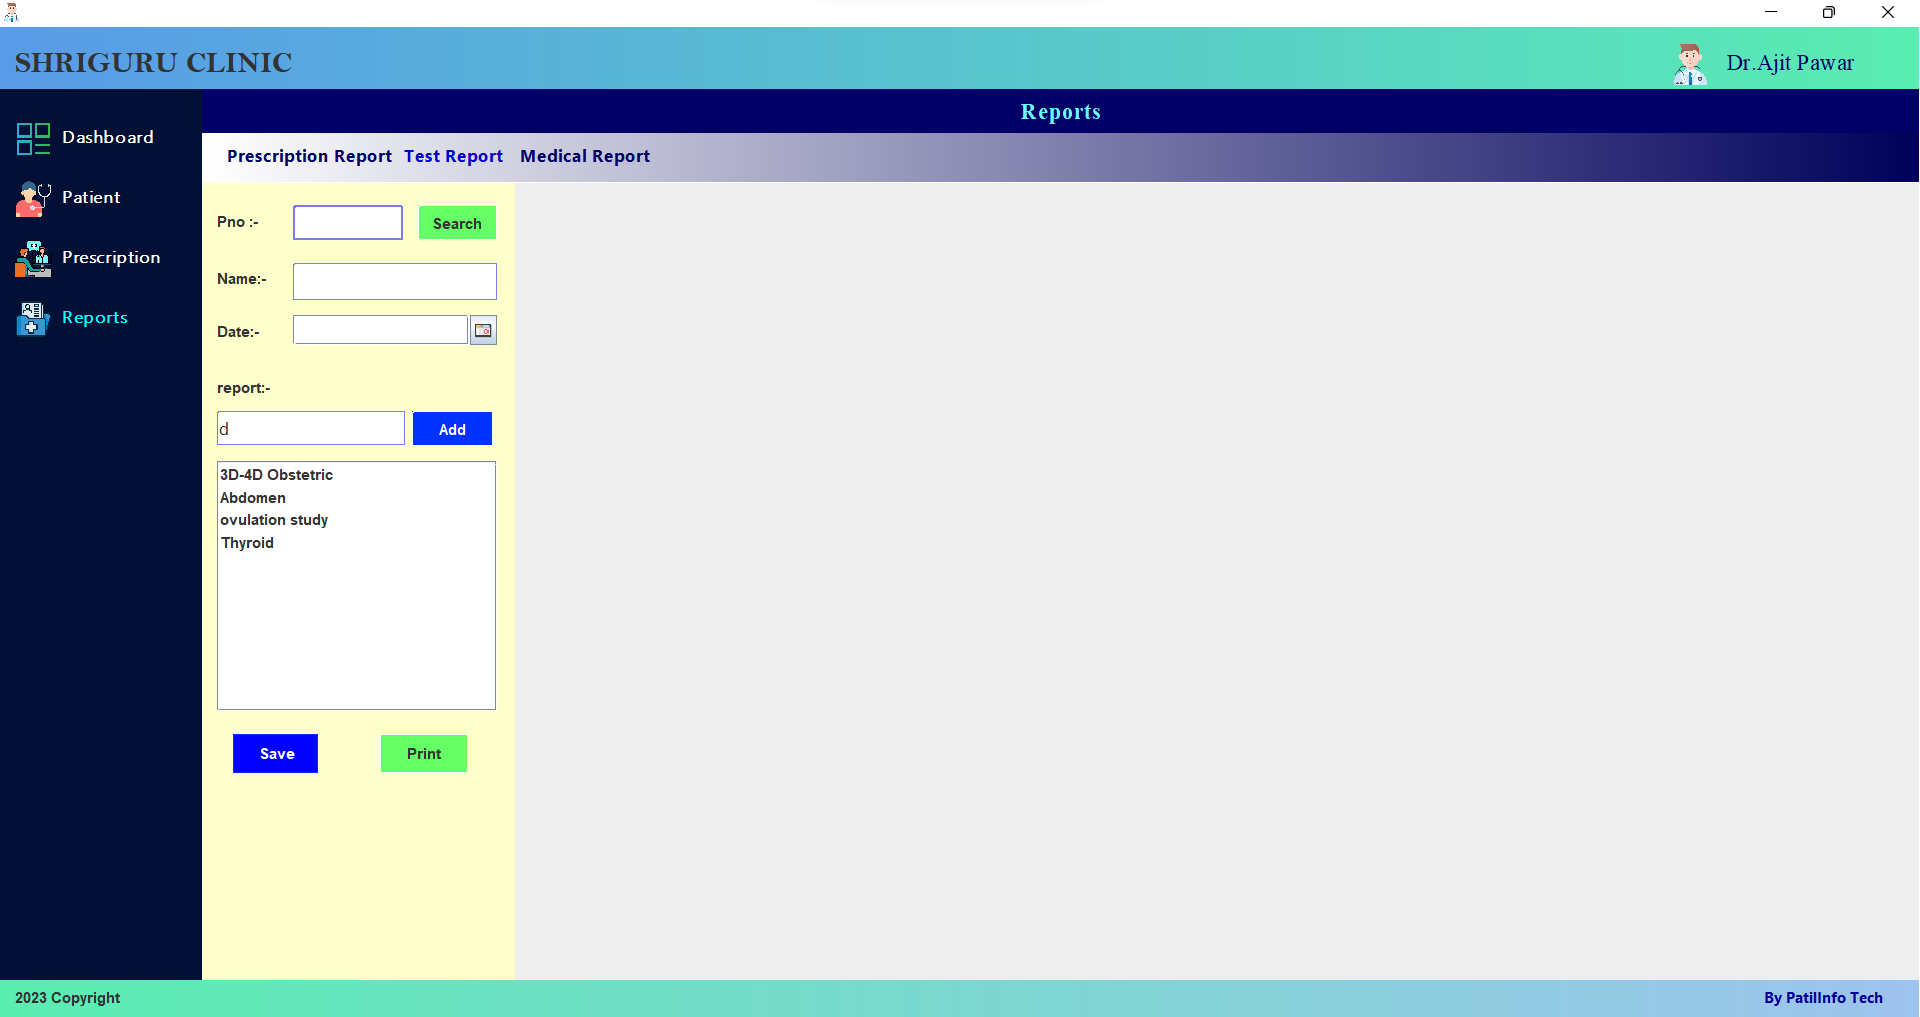
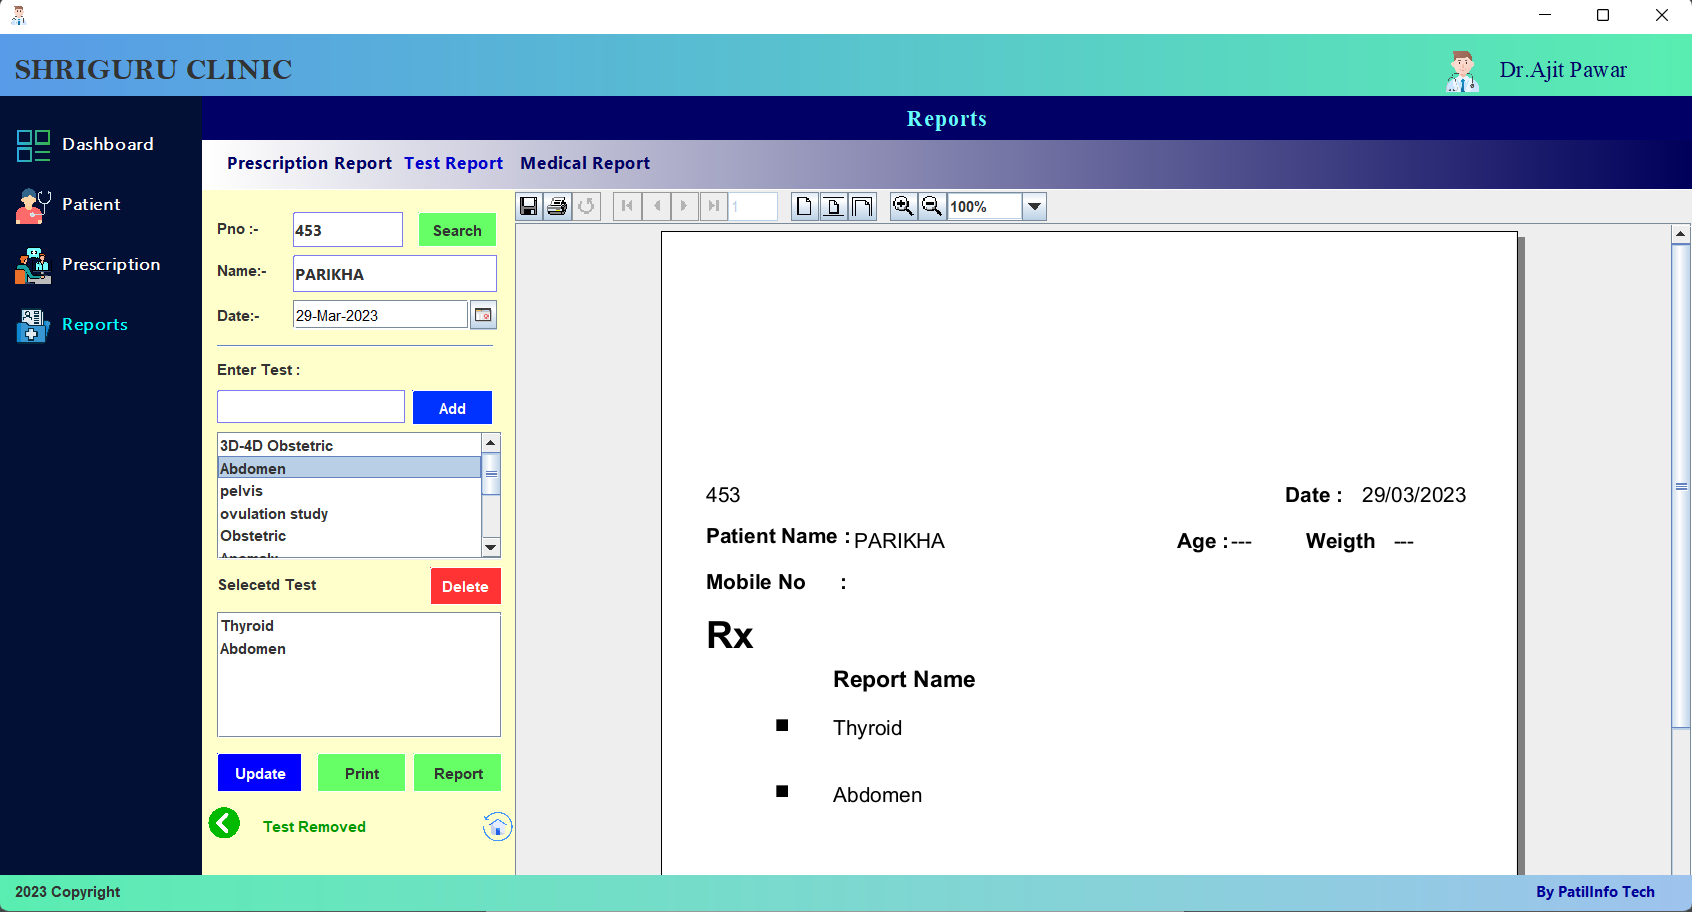
update button added on test report page

diff --git a/src/main/java/hospitalmanagement/TestReport.java b/src/main/java/hospitalmanagement/TestReport.java
@@ -97,6 +97,23 @@ public class TestReport extends javax.swing.JPanel {
         try {
             pno_report_input.setText(Integer.toString(TEST_REPORT_PATIENT_DETAILS.getPid()));
 
+            Database db = Database.getInstance();
+            ArrayList<String> tests = db.getAllTestReportts(TEST_REPORT_PATIENT_DETAILS.getPid());
+
+            if (tests != null) {
+                lm.removeAllElements();
+                for (String t : tests) {
+                    lm.addElement(t);
+                }
+                selected_report_list.setModel(lm);
+            }
+            else{
+                lm.removeAllElements();
+                
+            }
+            revalidate();
+            repaint();
+
         } catch (NullPointerException exp) {
             System.out.println("Enter integer value only");
         }
@@ -160,7 +177,7 @@ public class TestReport extends javax.swing.JPanel {
         report_status = new javax.swing.JLabel();
         search_report = new javax.swing.JButton();
         print = new javax.swing.JButton();
-        save = new javax.swing.JButton();
+        update = new javax.swing.JButton();
         jLabel5 = new javax.swing.JLabel();
         report_input = new javax.swing.JTextField();
         add_report_btn = new javax.swing.JButton();
@@ -275,23 +292,23 @@ public class TestReport extends javax.swing.JPanel {
             }
         });
 
-        save.setBackground(new java.awt.Color(0, 0, 255));
-        save.setForeground(new java.awt.Color(255, 255, 255));
-        save.setText("Save");
-        save.setBorder(new javax.swing.border.LineBorder(new java.awt.Color(0, 51, 255), 1, true));
-        save.setCursor(new java.awt.Cursor(java.awt.Cursor.HAND_CURSOR));
-        save.setFocusable(false);
-        save.addMouseListener(new java.awt.event.MouseAdapter() {
+        update.setBackground(new java.awt.Color(0, 0, 255));
+        update.setForeground(new java.awt.Color(255, 255, 255));
+        update.setText("Update");
+        update.setBorder(new javax.swing.border.LineBorder(new java.awt.Color(0, 51, 255), 1, true));
+        update.setCursor(new java.awt.Cursor(java.awt.Cursor.HAND_CURSOR));
+        update.setFocusable(false);
+        update.addMouseListener(new java.awt.event.MouseAdapter() {
             public void mouseEntered(java.awt.event.MouseEvent evt) {
-                saveMouseEntered(evt);
+                updateMouseEntered(evt);
             }
             public void mouseExited(java.awt.event.MouseEvent evt) {
-                saveMouseExited(evt);
+                updateMouseExited(evt);
             }
         });
-        save.addActionListener(new java.awt.event.ActionListener() {
+        update.addActionListener(new java.awt.event.ActionListener() {
             public void actionPerformed(java.awt.event.ActionEvent evt) {
-                saveActionPerformed(evt);
+                updateActionPerformed(evt);
             }
         });
 
@@ -473,7 +490,7 @@ public class TestReport extends javax.swing.JPanel {
                         .addGroup(test_report_formLayout.createParallelGroup(javax.swing.GroupLayout.Alignment.LEADING)
                             .addComponent(jLabel1, javax.swing.GroupLayout.PREFERRED_SIZE, 95, javax.swing.GroupLayout.PREFERRED_SIZE)
                             .addGroup(test_report_formLayout.createSequentialGroup()
-                                .addComponent(save, javax.swing.GroupLayout.PREFERRED_SIZE, 68, javax.swing.GroupLayout.PREFERRED_SIZE)
+                                .addComponent(update, javax.swing.GroupLayout.PREFERRED_SIZE, 68, javax.swing.GroupLayout.PREFERRED_SIZE)
                                 .addPreferredGap(javax.swing.LayoutStyle.ComponentPlacement.UNRELATED)
                                 .addComponent(print, javax.swing.GroupLayout.PREFERRED_SIZE, 71, javax.swing.GroupLayout.PREFERRED_SIZE)
                                 .addPreferredGap(javax.swing.LayoutStyle.ComponentPlacement.RELATED)
@@ -531,7 +548,7 @@ public class TestReport extends javax.swing.JPanel {
                     .addComponent(report_refresh, javax.swing.GroupLayout.Alignment.TRAILING, javax.swing.GroupLayout.PREFERRED_SIZE, 29, javax.swing.GroupLayout.PREFERRED_SIZE)
                     .addGroup(javax.swing.GroupLayout.Alignment.TRAILING, test_report_formLayout.createSequentialGroup()
                         .addGroup(test_report_formLayout.createParallelGroup(javax.swing.GroupLayout.Alignment.BASELINE)
-                            .addComponent(save, javax.swing.GroupLayout.PREFERRED_SIZE, 31, javax.swing.GroupLayout.PREFERRED_SIZE)
+                            .addComponent(update, javax.swing.GroupLayout.PREFERRED_SIZE, 31, javax.swing.GroupLayout.PREFERRED_SIZE)
                             .addComponent(print, javax.swing.GroupLayout.PREFERRED_SIZE, 31, javax.swing.GroupLayout.PREFERRED_SIZE)
                             .addComponent(generate_report, javax.swing.GroupLayout.PREFERRED_SIZE, 31, javax.swing.GroupLayout.PREFERRED_SIZE))
                         .addPreferredGap(javax.swing.LayoutStyle.ComponentPlacement.UNRELATED)
@@ -623,14 +640,42 @@ public class TestReport extends javax.swing.JPanel {
 
     private void search_reportActionPerformed(java.awt.event.ActionEvent evt) {//GEN-FIRST:event_search_reportActionPerformed
 
+       try{        
         Database database = Database.getInstance();
         int pno = Integer.parseInt(pno_report_input.getText());
         setTestReportPatientDetailsObject(database.getPatientDetails(pno));
+        
+        resetTestReportLists();
         setTestReportDetails();
+
+        ArrayList<String> tests = database.getAllTestReportts(pno);
+        if(tests!=null){
+         setReportPrint();
+        }
+       }catch(NumberFormatException exp)
+       {
+           report_status.setText("Enter valid patient number");
+           report_status.setForeground(WARNING_COLOR);
+       }
+        
 
 
     }//GEN-LAST:event_search_reportActionPerformed
-
+    public void resetTestReportLists()
+    {
+        report_input.setText("");
+        report_list.clearSelection();
+        selected_report_list.setModel(new DefaultListModel());
+        
+        report_show_panel.removeAll();
+        report_show_panel.revalidate();
+        report_show_panel.repaint();
+        
+        report_status.setText("");
+        
+        
+        
+    }
     private void printMouseEntered(java.awt.event.MouseEvent evt) {//GEN-FIRST:event_printMouseEntered
         print.setBorder(HOVER_BORDER);
     }//GEN-LAST:event_printMouseEntered
@@ -651,25 +696,17 @@ public class TestReport extends javax.swing.JPanel {
         }
     }//GEN-LAST:event_printActionPerformed
 
-    private void saveMouseEntered(java.awt.event.MouseEvent evt) {//GEN-FIRST:event_saveMouseEntered
-        save.setBorder(HOVER_BORDER);
-    }//GEN-LAST:event_saveMouseEntered
+    private void updateMouseEntered(java.awt.event.MouseEvent evt) {//GEN-FIRST:event_updateMouseEntered
+        update.setBorder(HOVER_BORDER);
+    }//GEN-LAST:event_updateMouseEntered
 
-    private void saveMouseExited(java.awt.event.MouseEvent evt) {//GEN-FIRST:event_saveMouseExited
-        save.setBorder(DEFAULT_BTN_BORDER);
-    }//GEN-LAST:event_saveMouseExited
+    private void updateMouseExited(java.awt.event.MouseEvent evt) {//GEN-FIRST:event_updateMouseExited
+        update.setBorder(DEFAULT_BTN_BORDER);
+    }//GEN-LAST:event_updateMouseExited
 
-    private void saveActionPerformed(java.awt.event.ActionEvent evt) {//GEN-FIRST:event_saveActionPerformed
-        try {
-            printReport(getTestReportPatientDetailsObject(), true);
-            report_status.setText("Rport printed Succesfully");
-            report_status.setForeground(SUCCESS_COLOR);
-        } catch (JRException ex) {
-            report_status.setText("Rport not printed");
-            report_status.setForeground(WARNING_COLOR);
-
-        }
-    }//GEN-LAST:event_saveActionPerformed
+    private void updateActionPerformed(java.awt.event.ActionEvent evt) {//GEN-FIRST:event_updateActionPerformed
+        updateTestReport();
+    }//GEN-LAST:event_updateActionPerformed
 
     private void report_inputMouseEntered(java.awt.event.MouseEvent evt) {//GEN-FIRST:event_report_inputMouseEntered
         report_input.setBorder(HOVER_BORDER);
@@ -712,6 +749,8 @@ public class TestReport extends javax.swing.JPanel {
 
         setReportsIntoDatabase();
         setReportPrint();
+       
+
     }//GEN-LAST:event_generate_reportActionPerformed
 
     private void report_refreshMouseClicked(java.awt.event.MouseEvent evt) {//GEN-FIRST:event_report_refreshMouseClicked
@@ -748,15 +787,15 @@ public class TestReport extends javax.swing.JPanel {
     }//GEN-LAST:event_remove_selected_report_btnActionPerformed
 
     private void remove_selected_report_btnMouseEntered(java.awt.event.MouseEvent evt) {//GEN-FIRST:event_remove_selected_report_btnMouseEntered
-       remove_selected_report_btn.setBorder(HOVER_BORDER);
+        remove_selected_report_btn.setBorder(HOVER_BORDER);
     }//GEN-LAST:event_remove_selected_report_btnMouseEntered
 
     private void remove_selected_report_btnMouseExited(java.awt.event.MouseEvent evt) {//GEN-FIRST:event_remove_selected_report_btnMouseExited
-       remove_selected_report_btn.setBorder(DEFAULT_BTN_BORDER);
+        remove_selected_report_btn.setBorder(DEFAULT_BTN_BORDER);
     }//GEN-LAST:event_remove_selected_report_btnMouseExited
 
     private void report_inputKeyPressed(java.awt.event.KeyEvent evt) {//GEN-FIRST:event_report_inputKeyPressed
-       if (evt.getKeyCode() == KeyEvent.VK_ENTER) {
+        if (evt.getKeyCode() == KeyEvent.VK_ENTER) {
             addReport();
             report_input.setText("");
             report_input.grabFocus();
@@ -764,18 +803,17 @@ public class TestReport extends javax.swing.JPanel {
 
         if (evt.getKeyCode() == KeyEvent.VK_DOWN) {
             report_list.grabFocus();
-           report_list.setSelectedIndex(0);
-           
+            report_list.setSelectedIndex(0);
+
         }
         if (evt.getKeyCode() == KeyEvent.VK_UP) {
-           
-            if(report_list.getSelectedIndex()==0){
+
+            if (report_list.getSelectedIndex() == 0) {
                 report_input.grabFocus();
+            } else {
+                report_list.grabFocus();
             }
-            else{
-            report_list.grabFocus();
-            }
-                  
+
         }
     }//GEN-LAST:event_report_inputKeyPressed
 
@@ -785,16 +823,15 @@ public class TestReport extends javax.swing.JPanel {
             report_input.setText("");
             report_input.grabFocus();
         }
-        
+
         if (evt.getKeyCode() == KeyEvent.VK_UP) {
-           
-            if(report_list.getSelectedIndex()==0){
+
+            if (report_list.getSelectedIndex() == 0) {
                 report_input.grabFocus();
+            } else {
+                report_list.grabFocus();
             }
-            else{
-            report_list.grabFocus();
-            }
-                  
+
         }
     }//GEN-LAST:event_report_listKeyPressed
     public void removeSelectedReport() {
@@ -816,8 +853,9 @@ public class TestReport extends javax.swing.JPanel {
         revalidate();
         repaint();
     }
-    
+
     DefaultListModel lm = new DefaultListModel();
+
     public void addReport() {
         String str = report_list.getSelectedValue();
 
@@ -850,7 +888,7 @@ public class TestReport extends javax.swing.JPanel {
         int size = selected_report_list.getModel().getSize();
         int pno = Integer.parseInt(pno_report_input.getText());
         for (int i = 0; i < size; i++) {
-            db.insertReport(pno, (String) lm.getElementAt(i));
+            db.insertTestReport(pno, (String) lm.getElementAt(i));
         }
 
     }
@@ -898,6 +936,9 @@ public class TestReport extends javax.swing.JPanel {
                 if (jr != null) {
                     JasperPrint jp = JasperFillManager.fillReport(jr, a, con);
                     JasperPrintManager.printReport(jp, with_dialog);
+                    
+                     resetReportPage();
+                     setTestReportPatientDetailsObject(null);
 
                 } else {
 
@@ -920,9 +961,32 @@ public class TestReport extends javax.swing.JPanel {
         selected_report_list.setModel(new DefaultListModel());
         report_input.setText("");
         report_status.setText("");
+        
         report_show_panel.removeAll();
         report_show_panel.revalidate();
         report_show_panel.repaint();
+    }
+
+    public void updateTestReport() {
+        try {
+//            resetReportPage();
+//           
+            PatientDetails patientDetails = getTestReportPatientDetailsObject();
+//           
+//            setTestReportDetails();
+            
+            Database db = Database.getInstance();
+            db.removeALlTestReport(patientDetails.getPid());
+
+            setReportsIntoDatabase();
+            setReportPrint();
+
+            report_status.setText("Update Successful.");
+            report_status.setForeground(SUCCESS_COLOR);
+        } catch (Exception exp) {
+            report_status.setText("Unable ot update");
+            report_status.setForeground(WARNING_COLOR);
+        }
     }
 
 
@@ -952,9 +1016,9 @@ public class TestReport extends javax.swing.JPanel {
     private javax.swing.JPanel report_refresh;
     private javax.swing.JPanel report_show_panel;
     private javax.swing.JLabel report_status;
-    private javax.swing.JButton save;
     private javax.swing.JButton search_report;
     private javax.swing.JList<String> selected_report_list;
     private javax.swing.JPanel test_report_form;
+    private javax.swing.JButton update;
     // End of variables declaration//GEN-END:variables
 }

diff --git a/src/main/java/myutil/Database.java b/src/main/java/myutil/Database.java
@@ -28,7 +28,7 @@ public class Database {
     private static final String FIND_MEDICINE_BY_PNO = "select * from medi where pno = ?";
     private static final String DELETE_MEDICINE_BY_PNO = "delete  from medi where pno =?";
     private static final String UPDATE_PATIENT_DATE = "update pdetail set date = ? where pno = ?;";
-     private static final String UPDATE_PATIENT_MOBILE_NO = "update pdetail set mno = ? where pno = ?;";
+    private static final String UPDATE_PATIENT_MOBILE_NO = "update pdetail set mno = ? where pno = ?;";
     private static final String DELETE_BOOKMARK_BY_NAME = "DELETE FROM `bookmark` WHERE bname=?";
     private static final String INSERT_BOOKMARK = "INSERT INTO `bookmark` (`bname`, `medicin`, `mqty`, `mtime`, `ba`, `qty`) VALUES (?,?,?,?,?,?);";
 
@@ -37,6 +37,8 @@ public class Database {
     private static final String INSERT_MEDICINE = "INSERT INTO `medilist` (`medicine`) VALUES (?);";
     
     private static final String INSERT_REPORT = "INSERT INTO `patient_reports` (`patient_no`, `reports`) VALUES (?,?);";
+    private static final String DELETE_TEST_REPORT_BY_PNO  = "delete  from patient_reports where patient_no =?";
+    private static final String GET_ALL_TEST_REPORTS ="SELECT *FROM patient_reports where patient_no=?";
      static Database singletone_database = null;
      Connection connection = null;
     //creates the database connection
@@ -433,7 +435,8 @@ public class Database {
             System.out.println(e);
         }
     }
-    public void insertReport(int pno , String report_name) {
+    //inserting test reports 
+    public void insertTestReport(int pno , String report_name) {
         try {
             Connection conn = connect();
             PreparedStatement preparedStatement = conn.prepareStatement(INSERT_REPORT);
@@ -446,7 +449,19 @@ public class Database {
             System.out.println(e);
         }
     }
+    public void removeALlTestReport(int patient_number)
+    {
+        try {
+            Connection conn = connect();
+            PreparedStatement preparedStatement = conn.prepareStatement(DELETE_TEST_REPORT_BY_PNO);
+            preparedStatement.setInt(1, patient_number);
 
+            preparedStatement.executeUpdate();
+
+        } catch (SQLException e) {
+            System.out.println(e);
+        }
+    }
     public ArrayList<String> getLikeMedicine(String str) {
 
         ArrayList<String> medi = new ArrayList<String>();
@@ -637,6 +652,34 @@ public class Database {
                 i++;
             }
             return medi;
+
+        } catch (SQLException e) {
+            System.out.println(e);
+        }
+        return null;
+    }
+    
+            
+     public ArrayList<String> getAllTestReportts(int patient_number) {
+
+        ArrayList<String> tests = new ArrayList<String>();
+
+        try {
+            Connection conn = connect();
+            
+
+            PreparedStatement preparedStatement = conn.prepareStatement(GET_ALL_TEST_REPORTS);
+             preparedStatement.setInt(1, patient_number);
+             
+            ResultSet rs = preparedStatement.executeQuery();
+            int i = 0;
+            while (rs.next()) {
+                tests.add(rs.getString("reports"));
+                i++;
+            }
+            if(i==0) 
+                return null;
+            return tests;
 
         } catch (SQLException e) {
             System.out.println(e);
